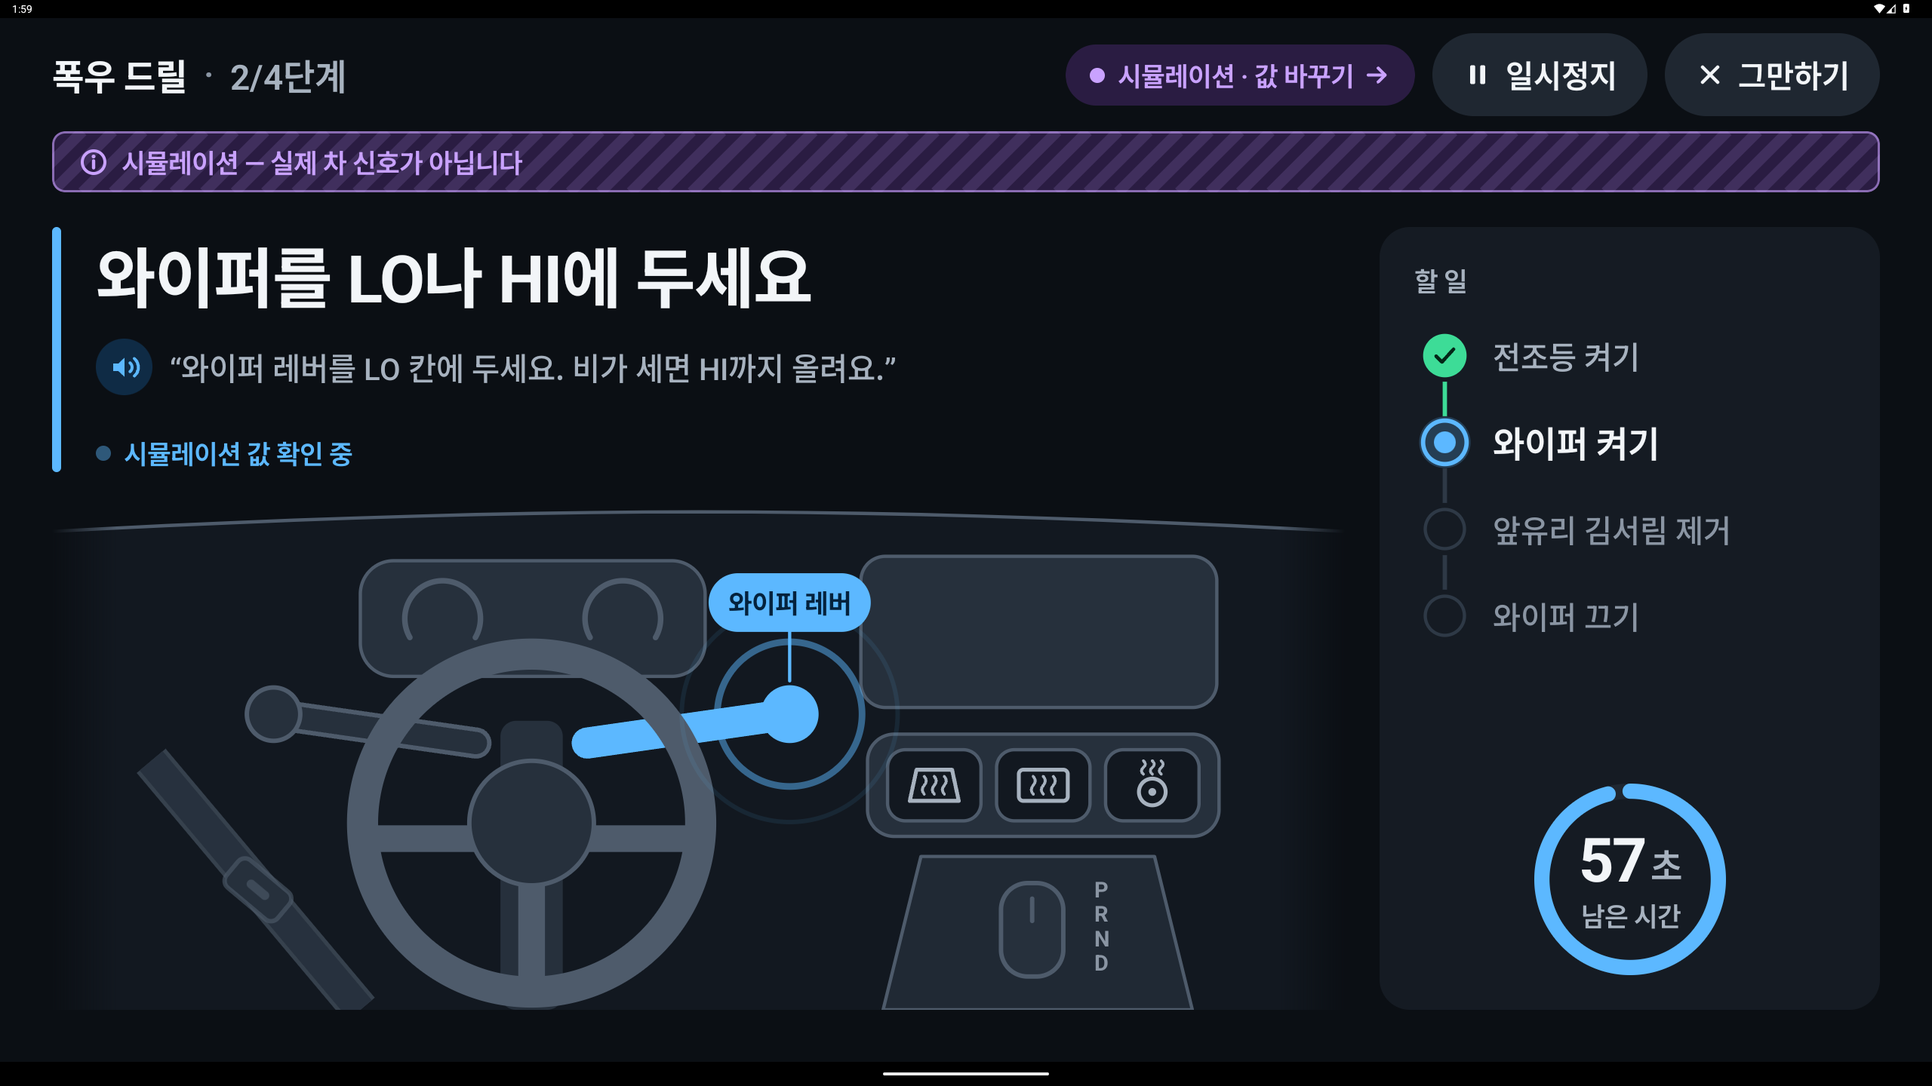
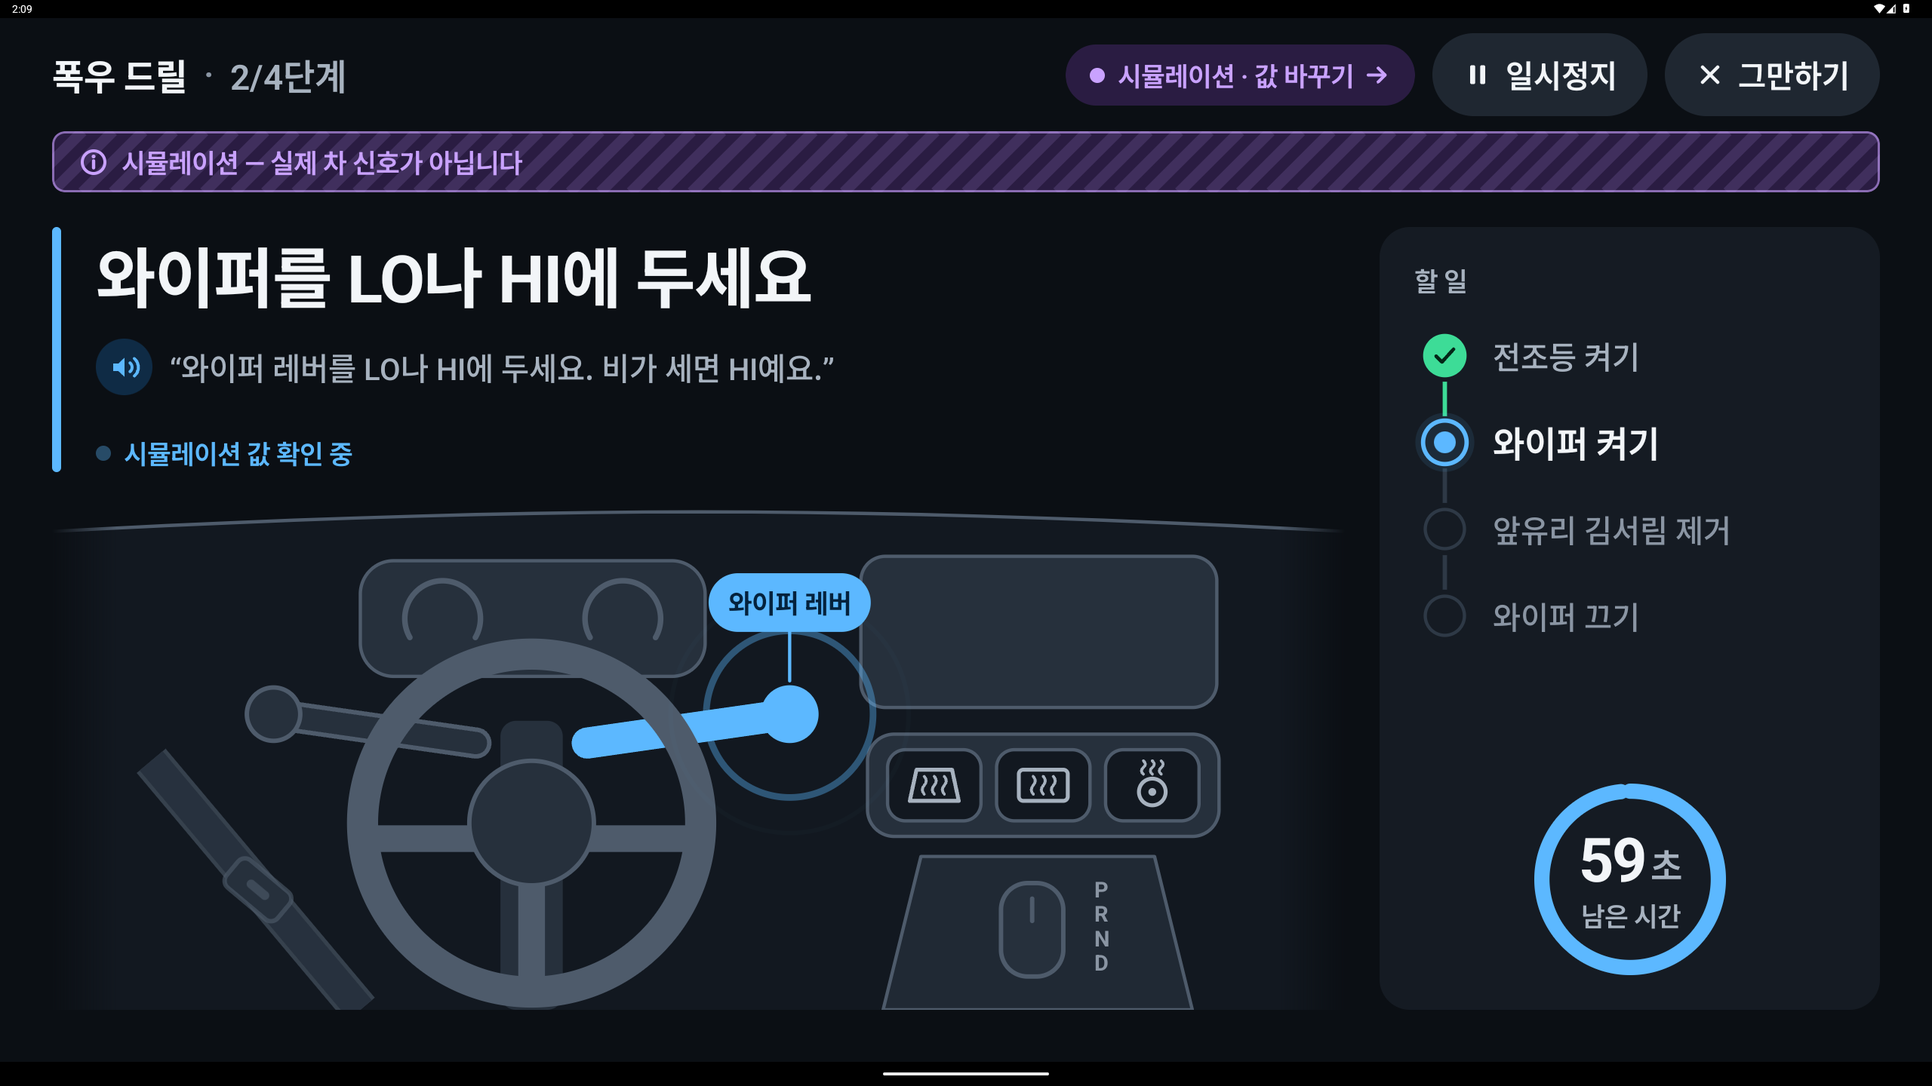
fix(screens): round-2 review fixes (opt-in no-change self-check, timer in self-check)
- Quest Step gets `ifNoChange: "selfCheck"` (opt-in). The 8 s no-change
  self-check now fires only on rain lowbeam/defrost_front and frost
  defrost_front/defrost_rear/steering_heat. Wiper.switch steps pass only
  on the car value (car-wash AUTO, rain LO and restore can no longer be
  skipped with the button).
- Running.selfCheckForNoChange drives its own eyebrow
  ("값이 아직 그대로예요. 했다면 눌러 주세요"); the "cannot read" copy
  stays for Unreadable/Unknown only.
- Self-check view keeps 일시정지 and the countdown ring/bar.
- Self-check button says "했어요" for restore or OFF targets.
- Rain wiper voice lines say "LO나 HI"; map header "3 / 5개 기능".
- Tests: 8 s rule on a non-wiper step, car-wash AUTO never self-checks.
- Docs: demo rehearsal line for Lights card, checklist density 160 and
  README items ticked; screenshots 04/05/06/09/15 recaptured, 17 added.

diff --git a/app/src/main/java/com/chagil/app/engine/DrillEngine.kt b/app/src/main/java/com/chagil/app/engine/DrillEngine.kt
@@ -26,8 +26,8 @@ import kotlinx.coroutines.launch
  * - Already satisfied at step start → passes after `stableMs` (log "이미 켜져 있음"), unless `alreadyOn` says otherwise.
  * - Reading changes to a key in `wrong` → hint immediately + log "다른 칸".
  * - Unreadable signal with `ifUnreadable: "selfCheck"` → [StepStatus.SELF_CHECK_NEEDED]; [selfCheck] passes it.
- *   The same happens when a readable value has not changed at all for [NO_CHANGE_SELF_CHECK_MS] (the control
- *   may drive another property, e.g. a console card that does not map to the read signal). The car value
+ *   With `ifNoChange: "selfCheck"` (opt-in, only for controls whose mapping is not verified, never Wiper.switch)
+ *   the same happens when a readable value has not changed at all for [NO_CHANGE_SELF_CHECK_MS]. The car value
  *   stays the primary pass: if it later matches, the step passes normally.
  * - Guards: hint while violated, never fail.
  * - `limitSec` runs out → [DrillState.TimedOut]. Paused time does not count.
@@ -197,6 +197,7 @@ class DrillEngine(
         s.prevValue = null
         s.changed = false
         s.noChangeLogged = false
+        s.selfCheckForNoChange = false
         s.stableSince = null
         s.hint = null
         s.status = StepStatus.WAITING
@@ -235,13 +236,14 @@ class DrillEngine(
                     }
                 } else {
                     s.stableSince = null
-                    val noChange = step.selfCheckIfUnreadable && !s.changed &&
+                    val noChange = step.selfCheckIfNoChange && !s.changed &&
                         elapsed(s) - s.stepEnteredAt >= NO_CHANGE_SELF_CHECK_MS
                     if (noChange && !s.noChangeLogged) {
                         s.noChangeLogged = true
                         addLog(s, "${step.signal?.label ?: step.read} $raw · 값이 바뀌지 않음 · 운전자 확인")
                     }
                     s.status = if (noChange) StepStatus.SELF_CHECK_NEEDED else StepStatus.WAITING
+                    s.selfCheckForNoChange = noChange
                 }
             }
             Reading.Unreadable, Reading.Unknown -> {
@@ -249,6 +251,7 @@ class DrillEngine(
                 val unreadable = reading == Reading.Unreadable ||
                     elapsed(s) - s.stepEnteredAt >= UNKNOWN_AS_UNREADABLE_MS
                 s.status = if (step.selfCheckIfUnreadable && unreadable) StepStatus.SELF_CHECK_NEEDED else StepStatus.WAITING
+                s.selfCheckForNoChange = false
             }
         }
         _state.value = running(s)
@@ -342,6 +345,7 @@ class DrillEngine(
         hint = s.guardHint ?: s.hint,
         elapsedMs = elapsed(s),
         stepCount = s.quest.steps.size,
+        selfCheckForNoChange = s.status == StepStatus.SELF_CHECK_NEEDED && s.selfCheckForNoChange,
     )
 
     private fun elapsed(s: Session): Long = s.accumulatedMs + (s.runningSince?.let { clock() - it } ?: 0L)
@@ -359,6 +363,7 @@ class DrillEngine(
         var prevValue: String? = null
         var changed = false
         var noChangeLogged = false
+        var selfCheckForNoChange = false
         var stableSince: Long? = null
         var status = StepStatus.WAITING
         var hint: Hint? = null
@@ -372,7 +377,7 @@ class DrillEngine(
         /** A selfCheck step whose value never arrives is treated as unreadable after this long. */
         const val UNKNOWN_AS_UNREADABLE_MS = 3_000L
 
-        /** A selfCheck step whose readable value never changes offers "켰어요" after this long. */
+        /** An `ifNoChange: "selfCheck"` step whose readable value never changes offers "켰어요" after this long. */
         const val NO_CHANGE_SELF_CHECK_MS = 8_000L
         private const val MAX_LOG = 200
     }

diff --git a/app/src/main/java/com/chagil/app/ui/screens/DrillScreen.kt b/app/src/main/java/com/chagil/app/ui/screens/DrillScreen.kt
@@ -154,7 +154,7 @@ private fun RunningView(ui: DrillUi, r: DrillState.Running, a: DrillActions, pau
         topBar = {
             DrillTopBar(q.title, progress = "${r.stepIndex + 1}/${q.steps.size}단계") {
                 TappableSourceChip(ui.simulation, a.onSource)
-                if (!selfCheck && !paused) TopBarButton("일시정지", a.onPause, icon = ChagilIcon.PAUSE)
+                if (!paused) TopBarButton("일시정지", a.onPause, icon = ChagilIcon.PAUSE)
                 TopBarButton("그만하기", a.onQuit, icon = ChagilIcon.CLOSE)
             }
         },
@@ -175,7 +175,11 @@ private fun RunningView(ui: DrillUi, r: DrillState.Running, a: DrillActions, pau
                     }
                     selfCheck -> InstructionPanel(
                         headline = step.instruction,
-                        eyebrow = "이 버튼은 앱이 확인할 수 없어요. 직접 하고 눌러 주세요",
+                        eyebrow = if (r.selfCheckForNoChange) {
+                            "값이 아직 그대로예요. 했다면 눌러 주세요"
+                        } else {
+                            "이 버튼은 앱이 확인할 수 없어요. 직접 하고 눌러 주세요"
+                        },
                         voice = step.voice,
                         checking = false,
                     )
@@ -205,15 +209,19 @@ private fun RunningView(ui: DrillUi, r: DrillState.Running, a: DrillActions, pau
                 Spacer(Modifier.height(ChagilSpacing.s))
                 StepList(q.steps.mapIndexed { i, s -> StepItem(s.label, if (i < r.stepIndex) StepState.DONE else if (i == r.stepIndex) StepState.ACTIVE else StepState.PENDING) })
                 val sec = ((r.remainingMs + 999) / 1000).toInt()
-                if (compact && !selfCheck) {
+                if (compact) {
                     Spacer(Modifier.height(ChagilSpacing.l))
                     CountdownBar(sec, q.limitSec)
                 }
                 Spacer(Modifier.weight(1f))
-                if (selfCheck) {
-                    PrimaryButton(if (step.isRestore) "했어요" else "켰어요", a.onSelfCheck, Modifier.fillMaxWidth(), icon = ChagilIcon.CHECK)
-                } else if (!compact) {
+                if (!compact) {
                     CountdownRing(sec, q.limitSec, Modifier.align(Alignment.CenterHorizontally), paused = paused)
+                }
+                if (selfCheck) {
+                    // The timer keeps running and the car value can still pass the step, so the ring stays visible.
+                    if (!compact) Spacer(Modifier.height(ChagilSpacing.l))
+                    val turnsOff = step.isRestore || step.to.equals("OFF", ignoreCase = true)
+                    PrimaryButton(if (turnsOff) "했어요" else "켰어요", a.onSelfCheck, Modifier.fillMaxWidth(), icon = ChagilIcon.CHECK)
                 }
             }
         }

diff --git a/app/src/test/java/com/chagil/app/engine/DrillEngineTest.kt b/app/src/test/java/com/chagil/app/engine/DrillEngineTest.kt
@@ -151,10 +151,47 @@ class DrillEngineTest {
 
         rig.advance(1_100)
         assertEquals(StepStatus.SELF_CHECK_NEEDED, rig.running.stepStatus)
+        assertTrue(rig.running.selfCheckForNoChange)
         assertTrue(rig.lines.last().endsWith("LowBeam 스위치 OFF · 값이 바뀌지 않음 · 운전자 확인"))
         assertTrue(rig.engine.selfCheck())
         assertEquals(1, rig.running.stepIndex)
         assertTrue(rig.lines.last().endsWith("LowBeam 스위치 값이 바뀌지 않음 · 운전자 확인 · 통과"))
+    }
+
+    @Test
+    fun `no-change self check is opt-in, a wiper step without it keeps waiting`() = runTest {
+        val rig = Rig(this)
+        rig.set(Signal.WIPER_SWITCH, "OFF")
+        rig.car.setUnreadable(Signal.LOW_BEAM_SWITCH)
+        rig.engine.start(quest)
+        assertFalse("unreadable self check is not the no-change kind", rig.running.selfCheckForNoChange)
+        rig.engine.selfCheck() // step 2: wiper1 has ifUnreadable/ifNoChange unset in the test quest
+        assertEquals(1, rig.running.stepIndex)
+        rig.advance(20_000)
+        assertEquals(StepStatus.WAITING, rig.running.stepStatus)
+        assertFalse(rig.engine.selfCheck())
+    }
+
+    @Test
+    fun `car wash wiper step still reading AUTO never offers self check`() = runTest {
+        val carwash = QuestRepository.parse(
+            """
+            {"id": "carwash_drill", "title": "세차장", "level": "L2", "limitSec": 60, "availability": "open",
+             "steps": [{"id": "wiper_off", "label": "와이퍼 끄기", "instruction": "와이퍼를 끄세요",
+               "control": "WIPER_STALK", "read": "Wiper.switch", "to": "OFF", "stableMs": 1000,
+               "alreadyOn": "pass", "ifUnreadable": "selfCheck"}]}
+            """.trimIndent(),
+        )
+        assertFalse(carwash.steps.single().selfCheckIfNoChange)
+        val rig = Rig(this)
+        rig.set(Signal.WIPER_SWITCH, "AUTO")
+        rig.engine.start(carwash)
+        repeat(5) {
+            rig.advance(11_000) // 55 s total, still inside the 60 s limit
+            assertEquals(StepStatus.WAITING, rig.running.stepStatus)
+            assertFalse(rig.running.selfCheckForNoChange)
+        }
+        assertFalse(rig.engine.selfCheck())
     }
 
     @Test

diff --git a/app/src/main/java/com/chagil/app/engine/Quest.kt b/app/src/main/java/com/chagil/app/engine/Quest.kt
@@ -90,6 +90,11 @@ data class Step(
     val alreadyOn: String? = null,
     /** "selfCheck": when the car cannot report the value, the driver taps "켰어요". */
     val ifUnreadable: String? = null,
+    /**
+     * "selfCheck": also offer "켰어요" when a readable value has not changed for 8 s. Only for controls whose
+     * console/car mapping is not verified (the button may not move this signal). Never on Wiper.switch.
+     */
+    val ifNoChange: String? = null,
     /** Raw value → hint shown immediately when the reading changes to that value. */
     val wrong: Map<String, Speech> = emptyMap(),
     /** Shown on the time-out screen: where this control is. */
@@ -102,6 +107,7 @@ data class Step(
     val isRestore: Boolean get() = role.equals("restore", ignoreCase = true)
     val passIfAlreadyOn: Boolean get() = alreadyOn == null || alreadyOn.equals("pass", ignoreCase = true)
     val selfCheckIfUnreadable: Boolean get() = ifUnreadable.equals(SELF_CHECK, ignoreCase = true)
+    val selfCheckIfNoChange: Boolean get() = ifNoChange.equals(SELF_CHECK, ignoreCase = true)
 
     fun matches(raw: String): Boolean = Condition.matches(raw, to, toAnyOf, notAnyOf)
 

diff --git a/app/src/main/java/com/chagil/app/ui/DebugScenes.kt b/app/src/main/java/com/chagil/app/ui/DebugScenes.kt
@@ -18,7 +18,7 @@ import kotlinx.coroutines.withTimeoutOrNull
  */
 object DebugScenes {
     val names = listOf(
-        "home", "confirm", "neutral", "drill", "hint", "selfcheck", "pause", "resume", "rest",
+        "home", "confirm", "neutral", "drill", "hint", "selfcheck", "nochange", "pause", "resume", "rest",
         "timeout", "completed", "map", "sim",
     )
 
@@ -63,6 +63,7 @@ object DebugScenes {
             "drill" -> drillAtStep2()
             "hint" -> { drillAtStep2(); sim.set(Signal.WIPER_SWITCH, "AUTO") }
             "selfcheck" -> { sim.setUnreadable(Signal.LOW_BEAM_SWITCH); vm.startDrill(rain) }
+            "nochange" -> vm.startDrill(rain) // lowbeam stays OFF: after 8 s the "값이 아직 그대로예요" check
             "pause" -> { drillAtStep2(); c.engine.pause() }
             "rest" -> { drillAtStep2(); sim.set(Signal.GEAR, Raw.GEAR_DRIVE) }
             "resume" -> { drillAtStep2(); sim.set(Signal.GEAR, Raw.GEAR_DRIVE); delay(1_000); sim.set(Signal.GEAR, Raw.GEAR_PARK) }

diff --git a/app/src/main/java/com/chagil/app/ui/screens/MapScreen.kt b/app/src/main/java/com/chagil/app/ui/screens/MapScreen.kt
@@ -66,7 +66,7 @@ fun MapScreen(simulation: Boolean, litControls: Set<String>, onClose: () -> Unit
                 Modifier.width(if (LocalWidthClass.current == WidthClass.COMPACT) 400.dp else 460.dp).fillMaxHeight()
                     .clip(ChagilShapes.large).background(c.surface).padding(ChagilSpacing.xl),
             ) {
-                Text("$lit / ${CountedCells.size}칸", style = t.headline, color = c.text)
+                Text("$lit / ${CountedCells.size}개 기능", style = t.headline, color = c.text)
                 Text("확인할 수 있는 기능 기준", style = t.body, color = c.textSecondary)
                 Spacer(Modifier.height(ChagilSpacing.l))
                 Rows.forEach { row ->

diff --git a/app/src/main/java/com/chagil/app/engine/DrillState.kt b/app/src/main/java/com/chagil/app/engine/DrillState.kt
@@ -58,6 +58,8 @@ sealed interface DrillState {
         val hint: Hint?,
         val elapsedMs: Long = 0,
         val stepCount: Int = 0,
+        /** SELF_CHECK_NEEDED because the value is readable but never changed (`ifNoChange`), not because it is unreadable. */
+        val selfCheckForNoChange: Boolean = false,
     ) : DrillState
 
     data class Paused(val reason: PauseReason, val snapshot: Running) : DrillState

diff --git a/docs/DEMO_SCRIPT.md b/docs/DEMO_SCRIPT.md
@@ -29,6 +29,8 @@
    - 콘솔 Wipers **Low**가 앱 판정 로그에 무엇으로 찍히는지(`INTERMITTENT_LEVEL_1` 또는 `CONTINUOUS_LEVEL_1`이어야 통과).
    - **AUTO**가 다른 칸 안내("AUTO는 센서에 맡겨요")를 띄우는지. (콘솔에는 MIST가 없다. 폭우엔 HI도 정답이라 High는 통과로 잡힌다. 다른 칸 장면엔 **AUTO**만 쓴다.)
    - **Exterior Lights Mode**가 전조등 단계를 통과시키는지 → 장면 ③을 A안/B안 중 하나로 정한다.
+   - Lights 카드 **On**이 판정 로그에 `ON`이 아닌 값(예: `AUTOMATIC`, `DAYTIME_RUNNING`)으로 찍히면, 장면 ③에서 Lights 카드를 **건드리지 말고** 8초 기다려 버튼을 쓴다(③-B). 값이 한 번이라도 바뀌면 버튼이 안 나온다.
+   - "값이 아직 그대로예요" 버튼은 전조등·김서림·열선 단계에만 나온다. 와이퍼 단계는 레버 값으로만 통과한다.
    - 홈 출처 칩이 `차 신호`(시뮬레이션 아님)인지. 시뮬레이션으로 떨어지면 녹화를 멈추고 원인부터 해결(권한 등, `docs/compliance/REVIEW.md` §2).
 4. 시작 상태: 콘솔 Gear **P**, Wipers **Off**, Defroster **Off**, Lights **Off(또는 Auto)**. 앱은 홈 화면.
 
@@ -41,7 +43,7 @@
 | 0:12–0:20 | ② 콘솔 Gear **D** → 앱이 "주행 중에는 쉬어요" 정지 화면. 다시 **P** → "이어서 할까요?"/홈 복귀 | 기어 D: 앱이 스스로 멈춰요<br>P로 두면 다시 열려요 |
 | 0:20–0:23 | 폭우 드릴 카드 탭 → 드릴 진행 화면, 남은 시간 60초 | 폭우 드릴 · 60초 |
 | 0:23–0:32 | ③-A 콘솔 Exterior Lights **ON** → 1초 뒤 `전조등 켜기` ✓ | 전조등을 켜면 차 값이 바뀌고, 1초 유지되면 통과 |
-|  | ③-B (콘솔로 전조등 판정이 안 될 때) 8초 동안 값이 안 바뀌면 "켰어요" 버튼이 나옴 → 탭 → ✓ (로그: `값이 바뀌지 않음 · 운전자 확인`) | 앱이 확인할 수 없는 버튼은 운전자 확인으로 넘어가요 |
+|  | ③-B (콘솔로 전조등 판정이 안 될 때) 8초 동안 값이 안 바뀌면 "값이 아직 그대로예요" 안내와 "켰어요" 버튼이 나옴 → 탭 → ✓ (로그: `값이 바뀌지 않음 · 운전자 확인`) | 앱이 확인할 수 없는 버튼은 운전자 확인으로 넘어가요 |
 | 0:32–0:42 | ④ **다른 칸**: 콘솔 Wipers **AUTO** → 지시가 안내로 바뀜, "차가 읽은 값: 와이퍼 AUTO" | 일부러 틀리게: AUTO<br>틀린 조작도 차 값으로 알아채요 |
 | 0:42–0:49 | ⑤ 콘솔 Wipers **Low** → 1초 뒤 `와이퍼 켜기` ✓ (리허설 때 로그의 원래 값을 적어 둔다: `CONTINUOUS_LEVEL_1` / `INTERMITTENT_LEVEL_1`) | 레버를 옮기면 통과 |
 | 0:49–0:56 | ⑥ 콘솔 Defroster(앞유리) **ON** → `앞유리 김서림 제거` ✓ | 공조 버튼도 차가 확인해요 |

diff --git a/docs/compliance/SUBMISSION_CHECKLIST.md b/docs/compliance/SUBMISSION_CHECKLIST.md
@@ -35,13 +35,13 @@
 
 ## C. README.md (소유: `feat/screens` — 아래 5개가 다 있어야 함)
 
-- [ ] 앱 이름 및 한 줄 소개 — "차 길들이기 — 차를 세워 두고 진짜 레버와 버튼을 움직이면, 차가 직접 정답을 판정하는 차 기능 실습 앱"
-- [ ] 실행 방법 — APK 설치 명령, 소스 빌드 명령(JDK 17, `./gradlew assembleRelease`), 앱 실행 후 첫 화면 설명
-- [ ] 테스트 환경 및 필요한 설정 — Android Automotive OS API 34, 가로 화면, 필요한 권한(아래 D), Vehicle Service가 없으면 자동 **시뮬레이션 모드**, 수동 전환 방법, 주차(P) 상태에서만 드릴이 열린다는 점
-- [ ] **Pleos Connect 에뮬레이터 버전과 화면 규격** — `Pleos Connect v2.1.0 (AAOS API 34, arm64), 2560×1440 가로, density <팀이 adb shell wm density로 확인한 값>`, Vehicle SDK 2.3.2, Virtual Console에서 쓴 카드(Wipers·Gear Selection·Defroster·Exterior Lights·Steering Wheel Heat)
+- [x] 앱 이름 및 한 줄 소개 — "차 길들이기 — 차를 세워 두고 진짜 레버와 버튼을 움직이면, 차가 직접 정답을 판정하는 차 기능 실습 앱"
+- [x] 실행 방법 — APK 설치 명령, 소스 빌드 명령(JDK 17, `./gradlew assembleRelease`), 앱 실행 후 첫 화면 설명
+- [x] 테스트 환경 및 필요한 설정 — Android Automotive OS API 34, 가로 화면, 필요한 권한(아래 D), Vehicle Service가 없으면 자동 **시뮬레이션 모드**, 수동 전환 방법, 주차(P) 상태에서만 드릴이 열린다는 점
+- [x] **Pleos Connect 에뮬레이터 버전과 화면 규격** — `Pleos Connect v2.1.0 (AAOS API 34, arm64), 2560×1440 가로, density 160`, Vehicle SDK 2.3.2, Virtual Console에서 쓴 카드(Wipers·Gear Selection·Defroster·Exterior Lights·Steering Wheel Heat)
 - [ ] APK 파일 위치 또는 Release 링크 — `apk/<팀명>_차길들이기_release.apk`
-- [ ] (권장) "프로토타입 범위" 절 — 무엇이 Vehicle SDK로 실제 판정되고 무엇이 시뮬레이션인지 표로. 공모전 약관 제9조② 오인 방지.
-- [ ] (권장) LICENSE·PRIVACY·NOTICE 링크, "42dot·현대자동차그룹이 만들거나 보증한 앱이 아님" 한 줄
+- [x] (권장) "프로토타입 범위" 절 — 무엇이 Vehicle SDK로 실제 판정되고 무엇이 시뮬레이션인지 표로. 공모전 약관 제9조② 오인 방지.
+- [x] (권장) LICENSE·PRIVACY·NOTICE 링크, "42dot·현대자동차그룹이 만들거나 보증한 앱이 아님" 한 줄
 
 ## D. 앱 안에서 지킬 것 (심사자가 설치해 볼 때)
 

diff --git a/README.md b/README.md
@@ -49,7 +49,7 @@ export JAVA_HOME="/Applications/Android Studio.app/Contents/jbr/Contents/Home"
 
 | 기능 | 판정 방식 |
 |---|---|
-| 폭우 드릴(60초): 전조등, 와이퍼 켜기(LO·HI), 앞유리 김서림, 와이퍼 끄기 | Vehicle SDK 값으로 판정. 값을 읽지 못하거나 8초 동안 값이 전혀 바뀌지 않으면 "켰어요" 운전자 확인(자가 확인 칸은 도면에 점등하지 않음) |
+| 폭우 드릴(60초): 전조등, 와이퍼 켜기(LO·HI), 앞유리 김서림, 와이퍼 끄기 | Vehicle SDK 값으로 판정. 값을 읽지 못하면 "켰어요" 운전자 확인. 전조등·김서림 단계만 8초 동안 값이 전혀 바뀌지 않을 때도 운전자 확인(콘솔 카드 대응이 확인되지 않은 버튼). 와이퍼는 레버 값으로만 통과. 운전자 확인 칸은 도면에 점등하지 않음 |
 | 세차 대비 드릴: 와이퍼 OFF | Vehicle SDK |
 | 성에 낀 아침 드릴: 앞·뒷유리 열선, 핸들 열선 (+ 와이퍼 OFF 주의) | Vehicle SDK |
 | 출발 준비 드릴(벨트) | "준비 중" 카드만 표시 (SDK 2.3.2에 벨트 값 없음) |
